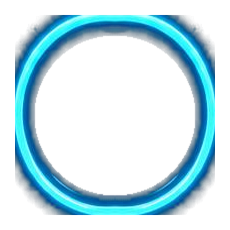
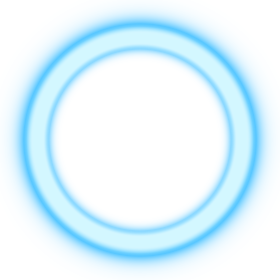
fix(number_bonds): replace target ring with a clean synthesized neon circle + drop the oversized glow disc — its flat top + the ring's glassy band read as 'chipped at top'

diff --git a/lib/features/games/number_bonds/number_bonds_screen.dart b/lib/features/games/number_bonds/number_bonds_screen.dart
@@ -458,26 +458,12 @@ class _Target extends StatelessWidget {
         alignment: Alignment.center,
         clipBehavior: Clip.none,
         children: [
-          // circular glow that matches the round ring (a wide-ellipse halo
-          // sprite stuck out past the sides and read as misaligned)
-          Container(
-            width: 116,
-            height: 116,
-            decoration: BoxDecoration(
-              shape: BoxShape.circle,
-              boxShadow: [
-                BoxShadow(
-                  color: AppPalette.math.withValues(alpha: 0.5),
-                  blurRadius: 26,
-                  spreadRadius: 2,
-                ),
-              ],
-            ),
-          )
+          // the ring sprite carries its own neon glow, so it just breathes
+          // gently — no separate glow disc (the old one sat past the ring and
+          // its flat top read as the ring being "chipped")
+          Image.asset(_Nb.targetBadge, width: 132)
               .animate(onPlay: (c) => c.repeat(reverse: true))
-              .scaleXY(begin: 0.94, end: 1.12, duration: 1300.ms)
-              .fade(begin: 0.5, end: 0.85, duration: 1300.ms),
-          Image.asset(_Nb.targetBadge, width: 128),
+              .scaleXY(begin: 0.97, end: 1.04, duration: 1500.ms, curve: Curves.easeInOut),
           Text(
             '$target',
             style: const TextStyle(
